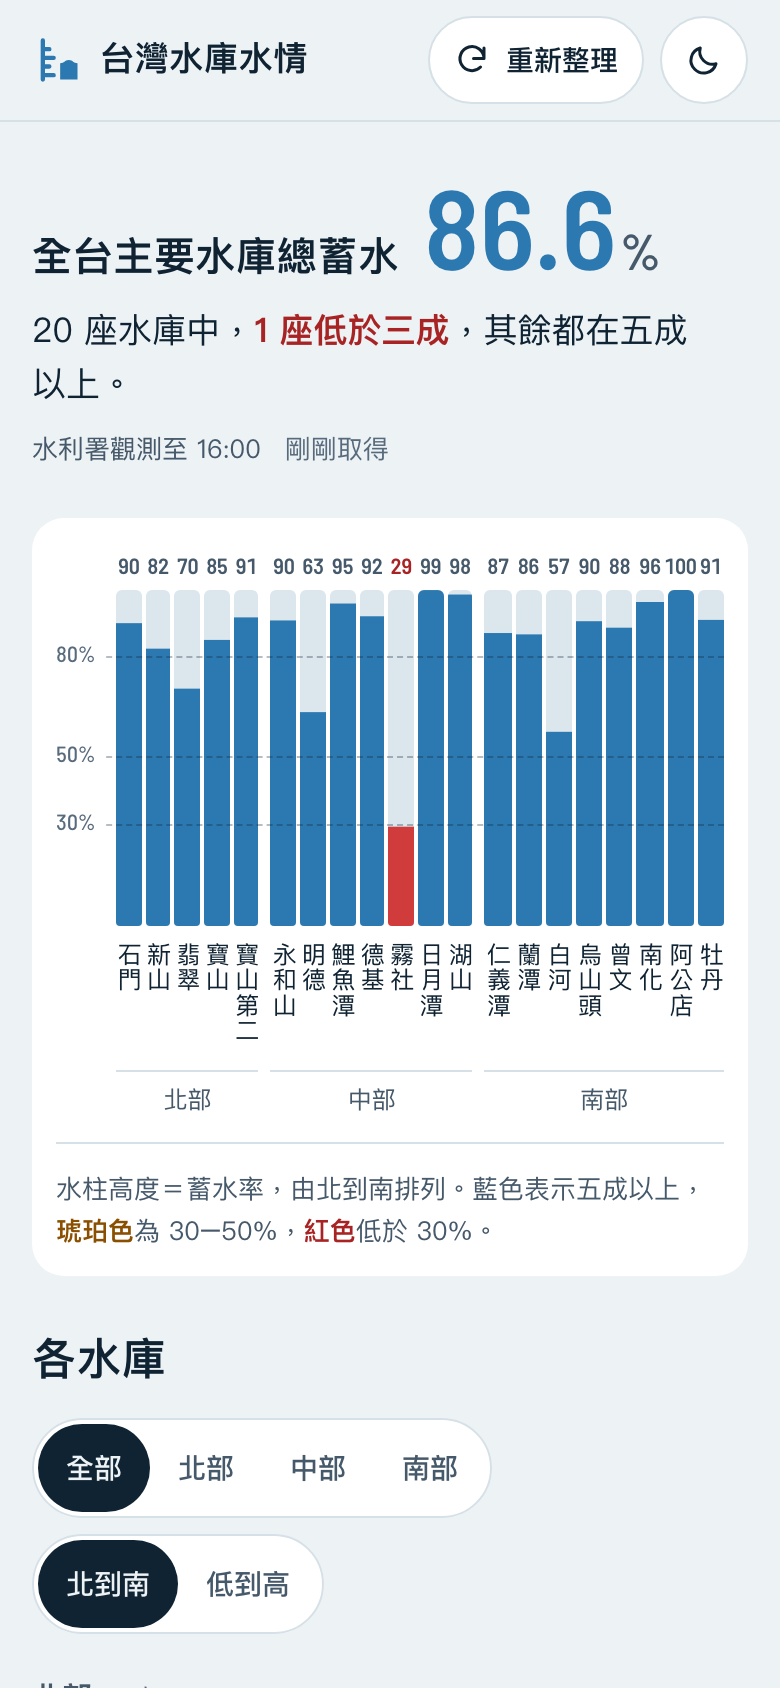
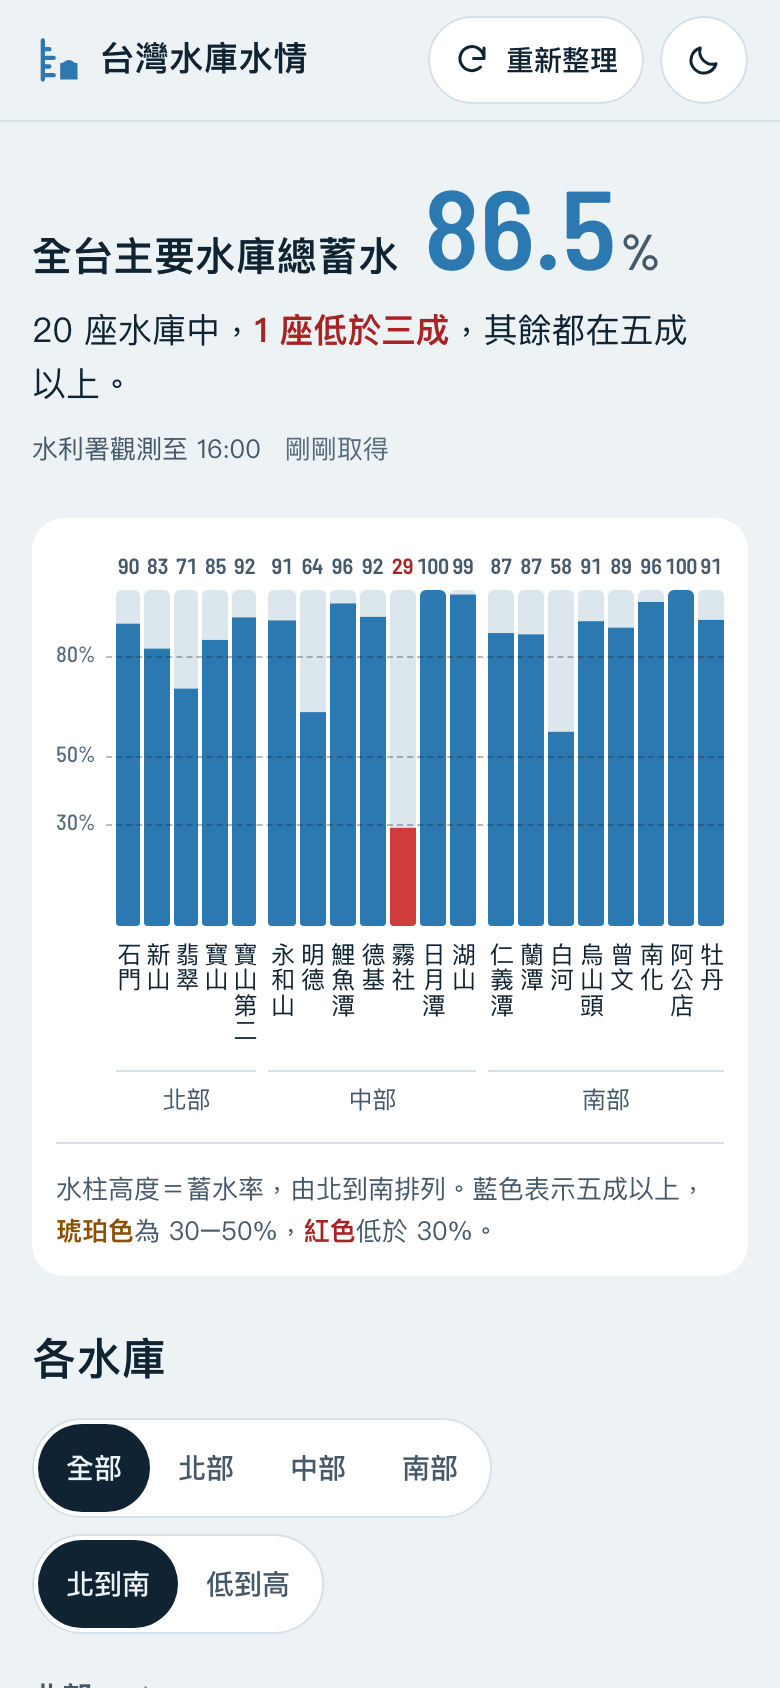
Show final gauge heights on first load
The 700ms staggered fill made the gauge wall look empty while users were
still deciding whether the data worked. Render the first set of heights
without a transition, enable a 300ms transition only for later refreshes,
and label the wall while the WRA API is still loading.

Also round displayed percentages normally unless rounding would cross a
level threshold, so the wall and the list show the same number.

diff --git a/js/main.js b/js/main.js
@@ -318,8 +318,8 @@ class ReservoirApp extends Utils.EventEmitter {
         const groups = Object.keys(REGION_LABELS).map(region => {
             const columns = this.stations
                 .filter(station => station.region === region)
-                .map((station, index) => `
-                    <div class="gauge" data-station="${station.stationNo}" data-level="missing" style="--p: 0; --i: ${index}">
+                .map(station => `
+                    <div class="gauge" data-station="${station.stationNo}" data-level="missing" style="--p: 0">
                         <span class="gauge-value">—</span>
                         <span class="gauge-tube"><span class="gauge-fill"></span></span>
                         <span class="gauge-name">${Utils.escapeHTML(this.shortName(station.name))}</span>
@@ -351,8 +351,15 @@ class ReservoirApp extends Utils.EventEmitter {
             }
             gauge.dataset.level = Utils.classify(reservoir.percentage).key;
             gauge.style.setProperty('--p', (reservoir.percentage / 100).toFixed(4));
-            // 無條件捨去，避免 29.6% 顯示成「30」卻標成低於三成
-            value.textContent = Math.floor(reservoir.percentage);
+            value.textContent = Utils.formatPercentage(reservoir.percentage, 0);
+        }
+
+        // 第一次有資料時直接畫出最終高度，下一幀才開啟過渡
+        if (data.size > 0 && !this.wallReady) {
+            this.wallReady = true;
+            requestAnimationFrame(() => requestAnimationFrame(() => {
+                document.getElementById('wall').classList.add('is-ready');
+            }));
         }
     }
 
@@ -432,7 +439,7 @@ class ReservoirApp extends Utils.EventEmitter {
                 <summary>
                     <span class="row-name"><strong>${name}</strong><span class="row-county">${Utils.escapeHTML(reservoir.county)}</span></span>
                     <span class="row-bar" aria-hidden="true"><span class="row-bar-fill" style="--p: ${(reservoir.percentage / 100).toFixed(4)}"></span><i style="--at: .3"></i><i style="--at: .5"></i><i style="--at: .8"></i></span>
-                    <span class="row-pct"><span class="visually-hidden">蓄水率</span><b>${reservoir.percentage.toFixed(1)}</b><small>%</small></span>
+                    <span class="row-pct"><span class="visually-hidden">蓄水率</span><b>${Utils.formatPercentage(reservoir.percentage)}</b><small>%</small></span>
                     <span class="pill" data-level="${level.key}">${level.label}</span>
                     <span class="row-trend">${this.trendHTML(reservoir)}</span>
                     <span class="row-time${stale ? ' is-stale' : ''}"><span class="visually-hidden">觀測時間</span>${timeText}${stale ? '<span class="stale-tag">較舊</span>' : ''}</span>
@@ -530,7 +537,7 @@ class ReservoirApp extends Utils.EventEmitter {
                     <li>
                         <a href="#r-${reservoir.station_no}" data-station="${reservoir.station_no}">
                             <span class="watch-name">${Utils.escapeHTML(reservoir.name)}<small>${Utils.escapeHTML(reservoir.county)}</small></span>
-                            <span class="watch-pct">${reservoir.percentage.toFixed(1)}<small>%</small></span>
+                            <span class="watch-pct">${Utils.formatPercentage(reservoir.percentage)}<small>%</small></span>
                             <span class="pill" data-level="${level.key}">${level.label}</span>
                         </a>
                     </li>`;

diff --git a/css/main.css b/css/main.css
@@ -586,7 +586,11 @@ input {
     background: var(--water);
     transform-origin: bottom;
     transform: scaleY(var(--p));
-    transition: transform .7s var(--ease-out) calc(var(--i, 0) * 20ms);
+}
+
+/* 首次載入直接顯示最終水位；之後資料更新才用短過渡標示變化 */
+.wall.is-ready .gauge-fill {
+    transition: transform .3s var(--ease-out);
 }
 
 .gauge[data-level="low"] .gauge-fill { background: var(--low); }
@@ -611,6 +615,27 @@ body[data-state="loading"] .gauge-tube {
 
 body[data-state="unavailable"] .gauge-tube {
     opacity: .5;
+}
+
+/* 等待水利署回應時明確說明，避免空水柱被誤認為資料異常 */
+.wall-loading {
+    display: none;
+    position: absolute;
+    left: 50%;
+    top: calc(20px + var(--tube-h) / 2);
+    z-index: 2;
+    transform: translate(-50%, -50%);
+    padding: var(--space-2) var(--space-4);
+    background: var(--surface);
+    border: 1px solid var(--line);
+    border-radius: 999px;
+    color: var(--ink-2);
+    font-size: 14px;
+    white-space: nowrap;
+}
+
+body[data-state="loading"] .wall-loading {
+    display: block;
 }
 
 .wall-caption {

diff --git a/js/utils.js b/js/utils.js
@@ -15,6 +15,16 @@
         return LEVELS.find(level => percentage >= level.min);
     }
 
+    // 四捨五入；若進位會跨過分級門檻（如 29.96 → 30.0 卻標「嚴重」），改為捨去
+    function formatPercentage(percentage, digits = 1) {
+        const factor = 10 ** digits;
+        let value = Math.round(percentage * factor) / factor;
+        if (classify(value).key !== classify(percentage).key) {
+            value = Math.floor(percentage * factor) / factor;
+        }
+        return value.toFixed(digits);
+    }
+
     // 水利署時間為台灣當地時間且不帶時區，如 "2026-10-22T15:00:00" 或 "2026-10-22 15:00"
     function parseTaiwanTime(text) {
         if (typeof text !== 'string') return null;
@@ -154,6 +164,7 @@
         HOUR,
         LEVELS,
         classify,
+        formatPercentage,
         parseTaiwanTime,
         formatObservation,
         formatRelative,

diff --git a/tests/utils.test.js b/tests/utils.test.js
@@ -50,3 +50,12 @@ test('sparklines keep a minimum vertical span so noise is not exaggerated', () =
 test('HTML is escaped before insertion', () => {
     assert.equal(Utils.escapeHTML('<b>"x"</b>'), '&lt;b&gt;&quot;x&quot;&lt;/b&gt;');
 });
+
+test('displayed percentages never round across a level threshold', () => {
+    assert.equal(Utils.formatPercentage(89.96, 0), '90');
+    assert.equal(Utils.formatPercentage(29.6, 0), '29');
+    assert.equal(Utils.formatPercentage(29.96), '29.9');
+    assert.equal(Utils.formatPercentage(49.97), '49.9');
+    assert.equal(Utils.formatPercentage(79.99, 0), '79');
+    assert.equal(Utils.formatPercentage(90.04), '90.0');
+});

diff --git a/index.html b/index.html
@@ -111,6 +111,7 @@
                         <span class="wall-guide" style="--at: .3"><span>30%</span></span>
                     </div>
                     <div class="wall-columns" id="wall-columns"></div>
+                    <p class="wall-loading" aria-hidden="true">正在讀取水利署資料</p>
                 </div>
                 <figcaption id="wall-caption" class="wall-caption">
                     水柱高度＝蓄水率，由北到南排列。藍色表示五成以上，<span class="cap-low">琥珀色</span>為 30–50%，<span class="cap-critical">紅色</span>低於 30%。

diff --git a/docs/design-research.md b/docs/design-research.md
@@ -88,7 +88,8 @@
 
 ### 動效
 
-- 只有一個進場時刻：資料第一次載入時，水柱由底部升到目前水位（600ms，ease-out，依序延遲 15ms）。
+- 首次載入不跑進場動畫，資料一到就直接顯示最終水位：水情頁的第一印象必須是「資料在這裡」，而不是一段等待。等待 API 時水尺牆中央會寫出「正在讀取水利署資料」。
+- 之後每次資料更新，水位用 300ms ease-out 過渡到新高度，讓變化看得見。
 - 使用者操作有回饋：展開列、切換篩選、重新整理按鈕旋轉。
 - `prefers-reduced-motion: reduce` 時全部停用。
 - 水位只在資料真的變動時才重新動畫，避免每 5 分鐘自動更新時整頁閃動。
